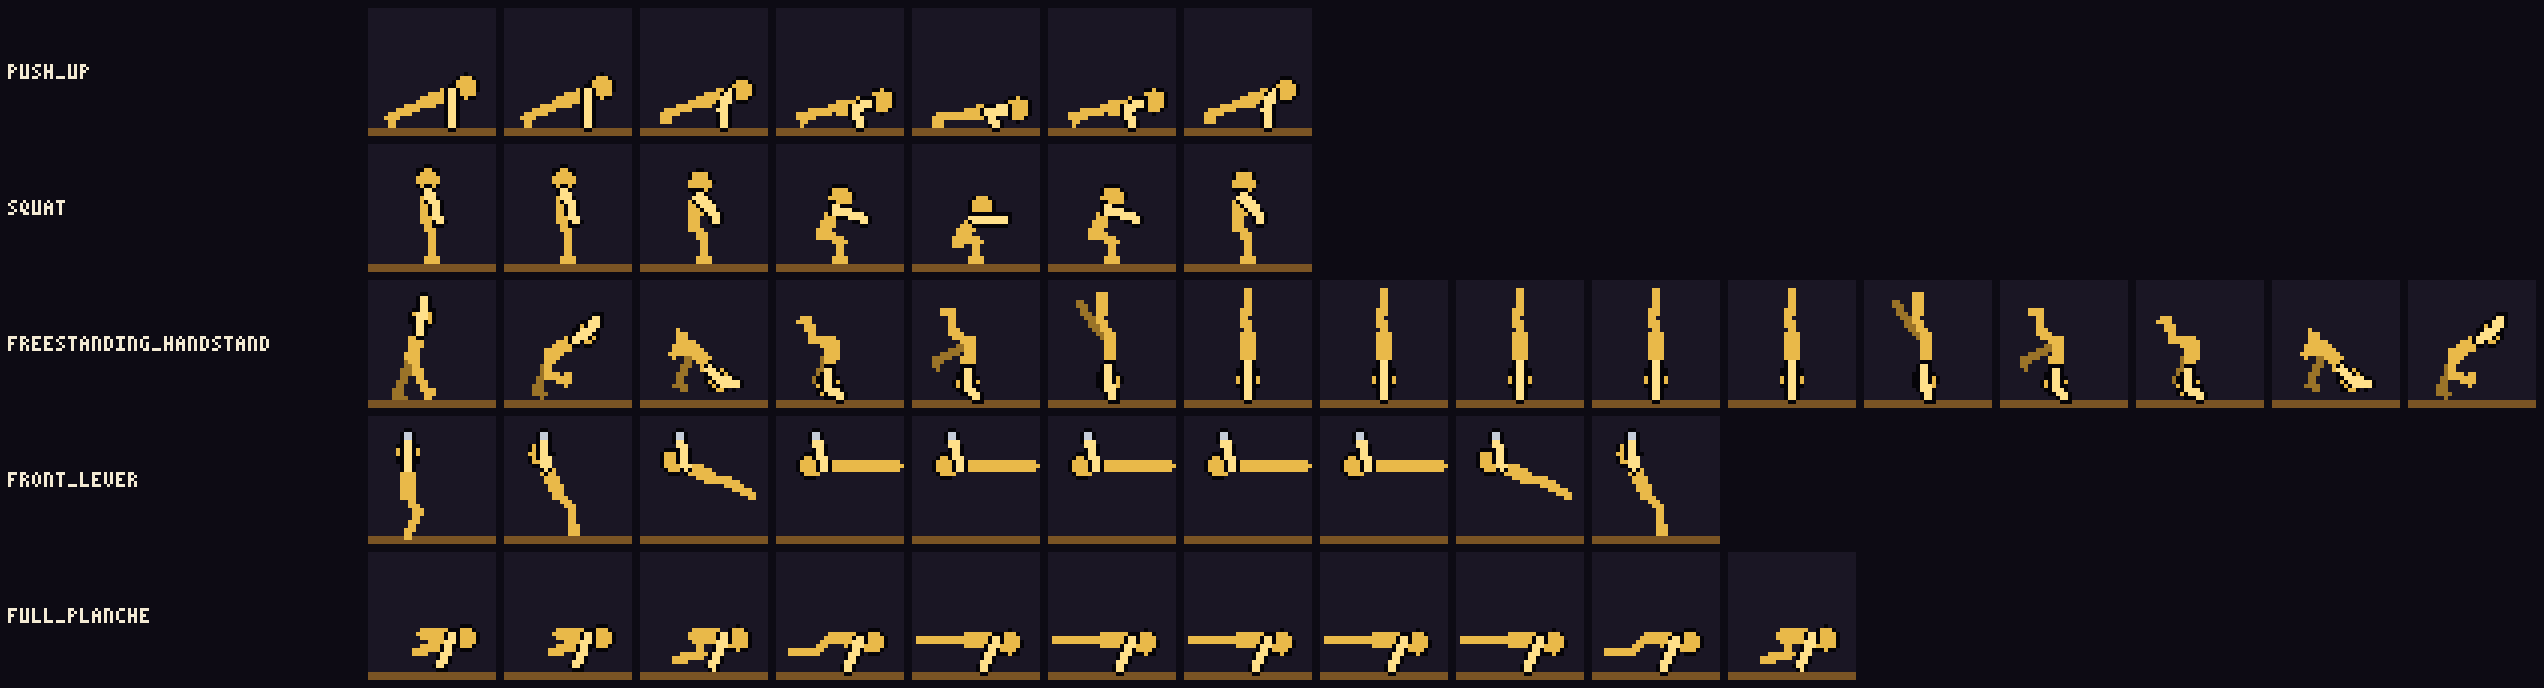
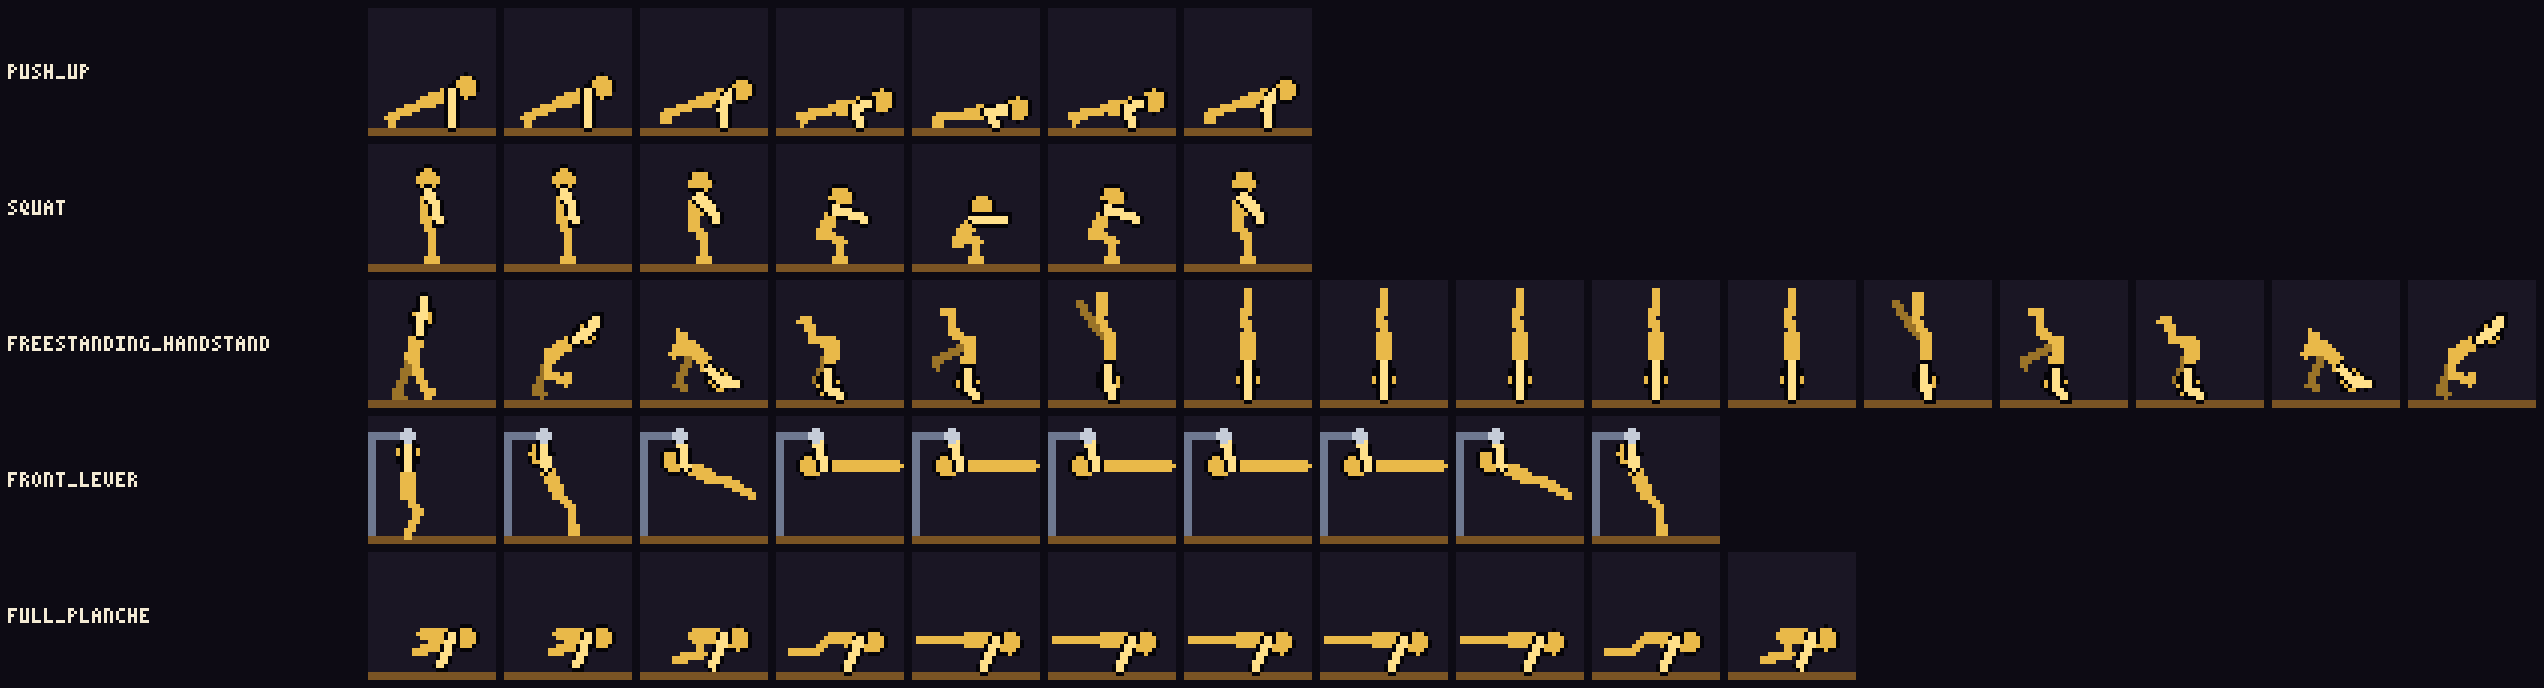
fix: draw the pull-up bar on a rig with headroom so hangs read as hanging (6.4a review)

diff --git a/src/lib/figureRaster.ts b/src/lib/figureRaster.ts
@@ -33,7 +33,10 @@ const LIMB_RADIUS = 1.15;
 const TORSO_RADIUS = 1.8;
 /** How far the outline reaches past the head and the near arm. */
 const OUTLINE = 0.75;
-const BAR_RADIUS = 1.1;
+const BAR_RADIUS = 1.6;
+/** A bar's rig: the post stands this many columns behind the bar (to the left), unless set. */
+const DEFAULT_POST_OFFSET = 11;
+const POST_WIDTH = 2;
 const RING_RADIUS = 1.6;
 const RING_HOLE_RADIUS = 0.7;
 
@@ -42,8 +45,12 @@ export type Prop =
   | { kind: 'floor' }
   /** A wall whose face is at column `x`, extending to the right edge. */
   | { kind: 'wall'; x: number }
-  /** A pull-up bar seen end-on, centred at (`x`, `y`). */
-  | { kind: 'bar'; x: number; y: number }
+  /**
+   * A pull-up bar seen end-on, centred at (`x`, `y`), on a rig: a post from the floor at column
+   * `postX` (default 11 columns to the left) and a beam over to the bar, like a pull-up station
+   * from the side.
+   */
+  | { kind: 'bar'; x: number; y: number; postX?: number }
   /** A bar seen from the front (front-view animations): a rail at row `y` from `x` to `x + width`. */
   | { kind: 'rail'; x: number; y: number; width: number }
   /** A gymnastics ring at (`x`, `y`) on a strap from the top edge. */
@@ -138,6 +145,14 @@ function drawPropBehind(canvas: Canvas, prop: Prop) {
     case 'rail':
       fillRect(canvas, prop.x, prop.y - 1, prop.width, 2, metal);
       return;
+    case 'bar': {
+      const postX = Math.max(0, Math.round(prop.postX ?? prop.x - DEFAULT_POST_OFFSET));
+      const beamY = Math.round(prop.y) - 1;
+      fillRect(canvas, postX, beamY, POST_WIDTH, FLOOR_Y - beamY, metalDark);
+      const beamFrom = Math.min(postX, Math.round(prop.x));
+      fillRect(canvas, beamFrom, beamY, Math.abs(Math.round(prop.x) - postX) + 1, 2, metalDark);
+      return;
+    }
     case 'pole':
       fillRect(canvas, prop.x, 0, 2, FLOOR_Y, metal);
       return;

diff --git a/src/data/animations/v_pull.ts b/src/data/animations/v_pull.ts
@@ -9,7 +9,7 @@ import type { Pose } from '@/lib/figure';
 import { figure, ON_FLOOR, p } from './pose';
 
 const FLOOR = { kind: 'floor' } as const;
-const BAR = p(16, 5);
+const BAR = p(16, 6);
 const BAR_PROP = { kind: 'bar', x: BAR.x, y: BAR.y } as const;
 /** The free arm of a one-arm hang, bent in front of the body so it shows. */
 const ARM_AT_SIDE = [55, 110] as const;
@@ -44,10 +44,10 @@ function hang(options: HangOptions = {}): Pose {
 function top(options: { oneArm?: boolean } = {}): Pose {
   const hand = { to: BAR };
   return figure({
-    hip: p(14.1, 13.6),
+    hip: p(14.1, 14.6),
     torso: -95,
     hands: [hand, options.oneArm ? ARM_AT_SIDE : hand],
-    feet: [{ to: p(12, 22.5) }],
+    feet: [{ to: p(12, 23.5) }],
     toes: 'point',
     pin: 'hand',
   });
@@ -149,10 +149,10 @@ export const V_PULL_ANIMATIONS: Readonly<Record<string, FigureAnimation>> = {
       {
         hold: 1,
         pose: figure({
-          hip: p(14.1, 13.6),
+          hip: p(14.1, 14.6),
           torso: -95,
           hands: [{ to: BAR }],
-          feet: [{ to: p(24, 13) }],
+          feet: [{ to: p(24, 14) }],
           toes: 'point',
           pin: 'hand',
         }),

diff --git a/src/lib/figureRaster.test.ts b/src/lib/figureRaster.test.ts
@@ -81,6 +81,19 @@ describe('rasterizePose', () => {
     expect(cell(wallRows, 30, 15)).toBe(FIGURE_ROLES.wood);
   });
 
+  it('puts a bar on a rig: a post from the floor and a beam over to the bar', () => {
+    const rows = rasterizePose(STAND, [{ kind: 'floor' }, { kind: 'bar', x: 16, y: 6 }]);
+    // Post 11 columns to the left, from the beam down to the floor.
+    expect(cell(rows, 5, 20)).toBe(FIGURE_ROLES.metalDark);
+    expect(cell(rows, 5, FLOOR_Y - 1)).toBe(FIGURE_ROLES.metalDark);
+    // Beam at the bar's height, the bar itself a bold steel cross-section.
+    expect(cell(rows, 10, 5)).toBe(FIGURE_ROLES.metalDark);
+    expect(cell(rows, 16, 6)).toBe(FIGURE_ROLES.metal);
+    expect(cell(rows, 15, 5)).toBe(FIGURE_ROLES.metal);
+    const right = rasterizePose(STAND, [{ kind: 'bar', x: 10, y: 6, postX: 25 }]);
+    expect(cell(right, 25, 20)).toBe(FIGURE_ROLES.metalDark);
+  });
+
   it('draws every prop kind inside the grid', () => {
     const props: Prop[] = [
       { kind: 'floor' },

diff --git a/docs/DESIGN.md b/docs/DESIGN.md
@@ -181,8 +181,9 @@ Screenshots: `docs/screenshots/4.2-tree.png`, `4.3-node-detail.png`, `4.3-unlock
 **Exercise animations (PLAN 6.4, ADR-053):** `PixelAnimation` plays a node's animation
 (`animationFor(node)`) as a 32 × 32-cell side view: the hero in `gold` like the app icon, the near
 arm in `goldLight` with a 1-cell `ink` edge (and the head too) so arm, head and torso stay apart,
-the far arm and leg in `goldDark` behind the body, equipment in `steel` / `steelDark` (bars and
-rings in front of the gripping hands) and floor, walls and boxes in `bronze`. It sits centred on
+the far arm and leg in `goldDark` behind the body, equipment in `steel` / `steelDark` (a bar is a
+bold 3-cell steel cross-section on a `steelDark` rig, a post from the floor and a beam over to it,
+so a hang reads as hanging from a pull-up station; bars and rings in front of the gripping hands) and floor, walls and boxes in `bronze`. It sits centred on
 top of the node detail's About panel at 128 dp (4 dp per cell) and on top of the
 `ExerciseInfoSheet` at 96 dp; use multiples of 32 dp. It is decorative (hidden from screen
 readers): the description next to it says the same in words. Proportions are chunky on purpose

diff --git a/docs/PLAN.md b/docs/PLAN.md
@@ -224,8 +224,9 @@
     --only <id> --cell 8 --out <scratch png>` and look at it until the exercise is recognisable.
     Then extend the coverage test in `animations.test.ts` (today: v_pull + `ICONIC_IDS`).
   - Gotchas: angles interpolate the short way, so a roll needs keyframes < 180° apart. A head or
-    hand that leaves the grid fails the bounds test (that is why the pull-up bar is at row 5 and
-    the chest-to-bar one at row 7). Arms come out of one shoulder point; in the front view
+    hand that leaves the grid fails the bounds test (that is why the pull-up bar is at row 6 and
+    the chest-to-bar one at row 7). A `bar` prop draws its rig (post + beam) itself; `postX` moves
+    the post when a figure needs that side. Arms come out of one shoulder point; in the front view
     (archer) that reads as a Y, which is fine at this size. Far limbs hide behind the torso: bend
     them forward to show them (one-arm chin-up).
   - Verified: typecheck, lint, format, the full Jest suite, `progressions:check`, the contact

diff --git a/docs/DECISIONS.md b/docs/DECISIONS.md
@@ -1535,7 +1535,9 @@ Template:
     1.8 cells of the bone), the head as a disc. Roles: body (`gold`), near arm (`goldLight` with
     an `ink` edge, also around the head; without it the arm, head and torso merged into one
     shape), far limbs (`goldDark`, behind), metal (`steel` / `steelDark`) and wood (`bronze`).
-    Props: floor, wall, bar (end-on), rail (a bar seen from the front), rings, parallettes, dip
+    Props: floor, wall, bar (end-on, a bold 3-cell cross-section on a rig: a post from the floor
+    and a beam over to it, so a hang reads as hanging and not as raised arms; the bar sits at row
+    5–8 so the head clears it at the top of a pull-up), rail (a bar seen from the front), rings, parallettes, dip
     bars, box, pole. Bars and rings draw in front of the hands, the rest behind.
   - **Animation (`figureAnimation.ts`):** 1–4 keyframes, each with an optional `hold` (extra
     frames) and `steps` (frames to the next one, e.g. a slow negative), looping back to the first;
